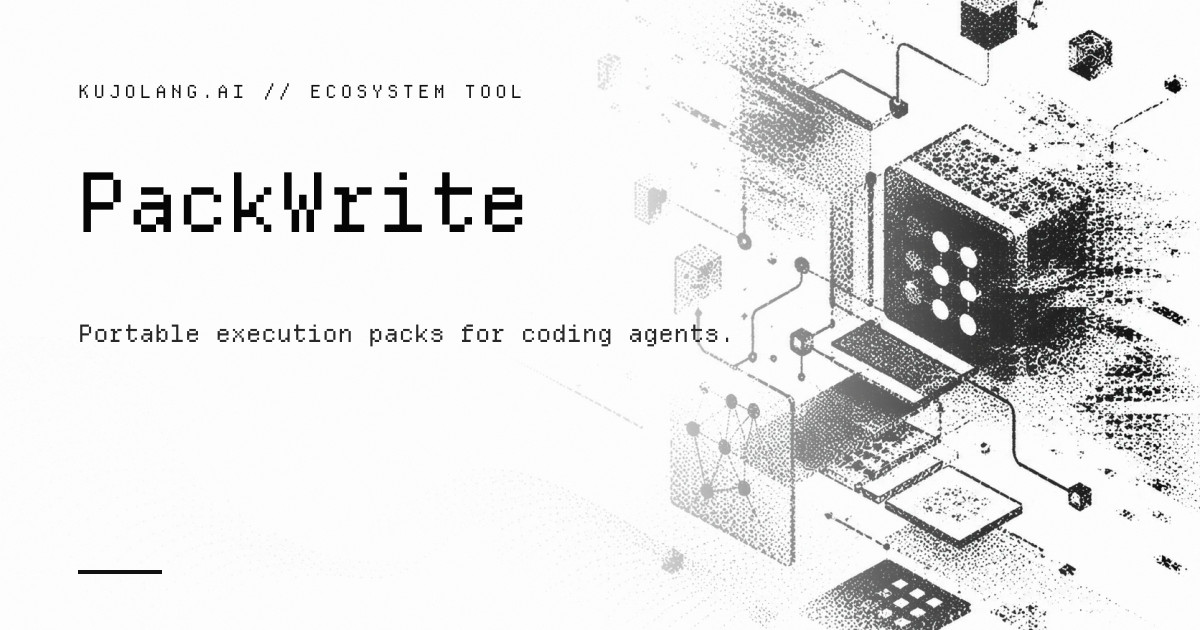
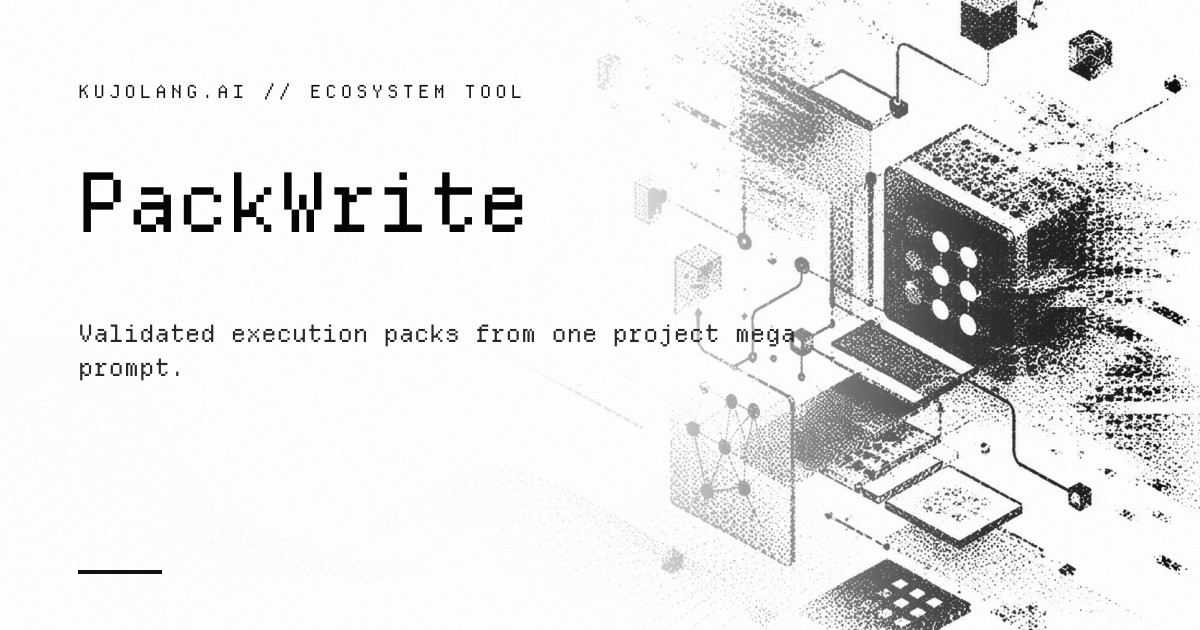
docs: expand PackWrite 1.1 coverage

Changed region(s): [[0.0617, 0.5127, 0.6783, 0.5429], [0.0617, 0.573, 0.1542, 0.6032]]

diff --git a/content/ecosystem/34-packwrite.md b/content/ecosystem/34-packwrite.md
@@ -1,31 +1,90 @@
 ---
 title: "PackWrite"
 custom_url: packwrite
-description: "Validated agent execution packs compiled from a large prompt and repository context, including phases, handoffs, and review checklists."
+description: "Compile project intent and bounded repository context into deterministic, validated execution packs for implementation agents and reviewers."
 featured_image: "/assets/images/ecosystem/packwrite-execution-pack.webp"
 section: "Tooling"
-tags: [Tool, Execution Packs]
+tags: [Tool, Agents]
 order: 260
 install_command: "git clone https://github.com/kujolang/packwrite.git"
 github_url: "https://github.com/kujolang/packwrite"
-launch_story: "Standardize repeatable agent execution without hiding the operating instructions."
-scope_note: "Generated packs require review for scope, authority, model configuration, and repository-specific constraints."
+launch_story: "Turn one large project brief into a reviewable operating manual that agents can execute phase by phase."
+scope_note: "PackWrite compiles planning artifacts locally; it does not implement the project, host models, deploy code, or replace review."
 keywords: "PackWrite, Kujo ecosystem, Tool, Execution Packs"
 seo_title: "PackWrite — Kujo Ecosystem"
+version: "1.1.0"
+last_updated: 2026-09-04
 ---
 
 ## What it does
 
-Validated agent execution packs compiled from a large prompt and repository context, including phases, handoffs, and review checklists.
+PackWrite is an AI-assisted, local-first workflow-pack compiler. Give it a repository-level `MEGA_PROMPT.md`; it collects lightweight, secret-aware repository context, calls an OpenAI-compatible model endpoint, and writes a deterministic `agent/` pack for implementation and independent review.
+
+```text
+strategy AI → MEGA_PROMPT.md → PackWrite → agent/ pack → implementation agent → reviewer
+```
+
+The model fills the content. PackWrite owns and validates the structure, output boundary, and failure behavior.
 
 ## Why it belongs in Kujo
 
-Standardize repeatable agent execution without hiding the operating instructions.
+Long agent tasks drift when intent, constraints, and evidence requirements live only in chat. PackWrite makes the operating contract explicit, versionable, inspectable, and reusable beside the code.
+
+## Five-minute workflow
+
+```bash
+cd your-project
+packwrite doctor --strict
+packwrite init MEGA_PROMPT.md --dry-run
+packwrite init MEGA_PROMPT.md --provider deepseek --model deepseek-v4-pro
+packwrite validate
+packwrite summary
+packwrite prompt deepseek
+packwrite prompt codex-review
+```
+
+`doctor --strict` checks the prompt, provider, endpoint, API-key environment, and output state before a paid model call. `--dry-run` runs generation and manifest validation without writing. `summary`, `validate --json`, and `doctor --strict --json` provide deterministic local and CI-readable status.
+
+## What the pack contains
+
+```text
+agent/
+  MASTER.md
+  TODO.md
+  HANDOFF.md
+  DECISIONS.md
+  REVIEW_CHECKLIST.md
+  DEEPSEEK_START.md
+  CODEX_REVIEW_PROMPT.md
+  phases/00-project-brief.md
+  phases/01-*.md
+```
+
+The stable master brief, scoped phase files, mutable handoff and decision records, review checklist, and ready-to-paste prompts give downstream agents an explicit path from intent to verified completion.
+
+## Current 1.1 capabilities
+
+- Generate, validate, summarize, inspect configuration, diagnose setup, and print clean handoff prompts from one CLI.
+- Select DeepSeek, OpenAI, or a local OpenAI-compatible endpoint; route other providers through an explicit compatible gateway.
+- Configure prompt, output, model, repository-context, and optional pack surfaces through `packwrite.toml`.
+- Run offline and in CI with a fake-response manifest, deterministic validation, quiet output, and machine-readable JSON.
+- Clean-replace an existing pack with `--overwrite`, pruning stale files only after a staged replacement validates.
+- Reject path traversal, symlink escapes, control characters, credentialed endpoints, secret-looking generated paths, unsafe output directories, oversized model responses, and invalid manifests before promotion.
+
+## Provider and privacy boundary
+
+API keys come from environment variables only. PackWrite sends a bounded repository summary rather than the full checkout, skips common dependency/build directories and secret-looking paths by default, and requires every generated path to stay inside the configured output directory.
+
+The adapter speaks the OpenAI-compatible chat-completions protocol. Anthropic is not a native endpoint in 1.1; Claude and other non-compatible providers require an OpenAI-compatible gateway.
 
 ## Operating boundary
 
-Generated packs require review for scope, authority, model configuration, and repository-specific constraints.
+PackWrite creates plans, prompts, and handoffs. It is not a hosted agent runtime, deployment system, organization policy service, signing system, or implementation agent. Review the generated pack before code changes begin, and use the repository's real tests and release gates during execution.
+
+## Release
+
+PackWrite 1.1.0 is the current released version. It adds `summary`, JSON and quiet modes, stronger staged-write and endpoint controls, nested output support, bounded diagnostics, a golden offline pack fixture, and the official release checklist.
 
 ## Learn more
 
-The repository is the source of truth for current setup, commands, examples, security notes, compatibility, and verification evidence.
+The [PackWrite repository](https://github.com/kujolang/packwrite) contains the CLI, complete configuration reference, end-to-end guide, troubleshooting material, tests, and [v1.1.0 release](https://github.com/kujolang/packwrite/releases/tag/v1.1.0).
